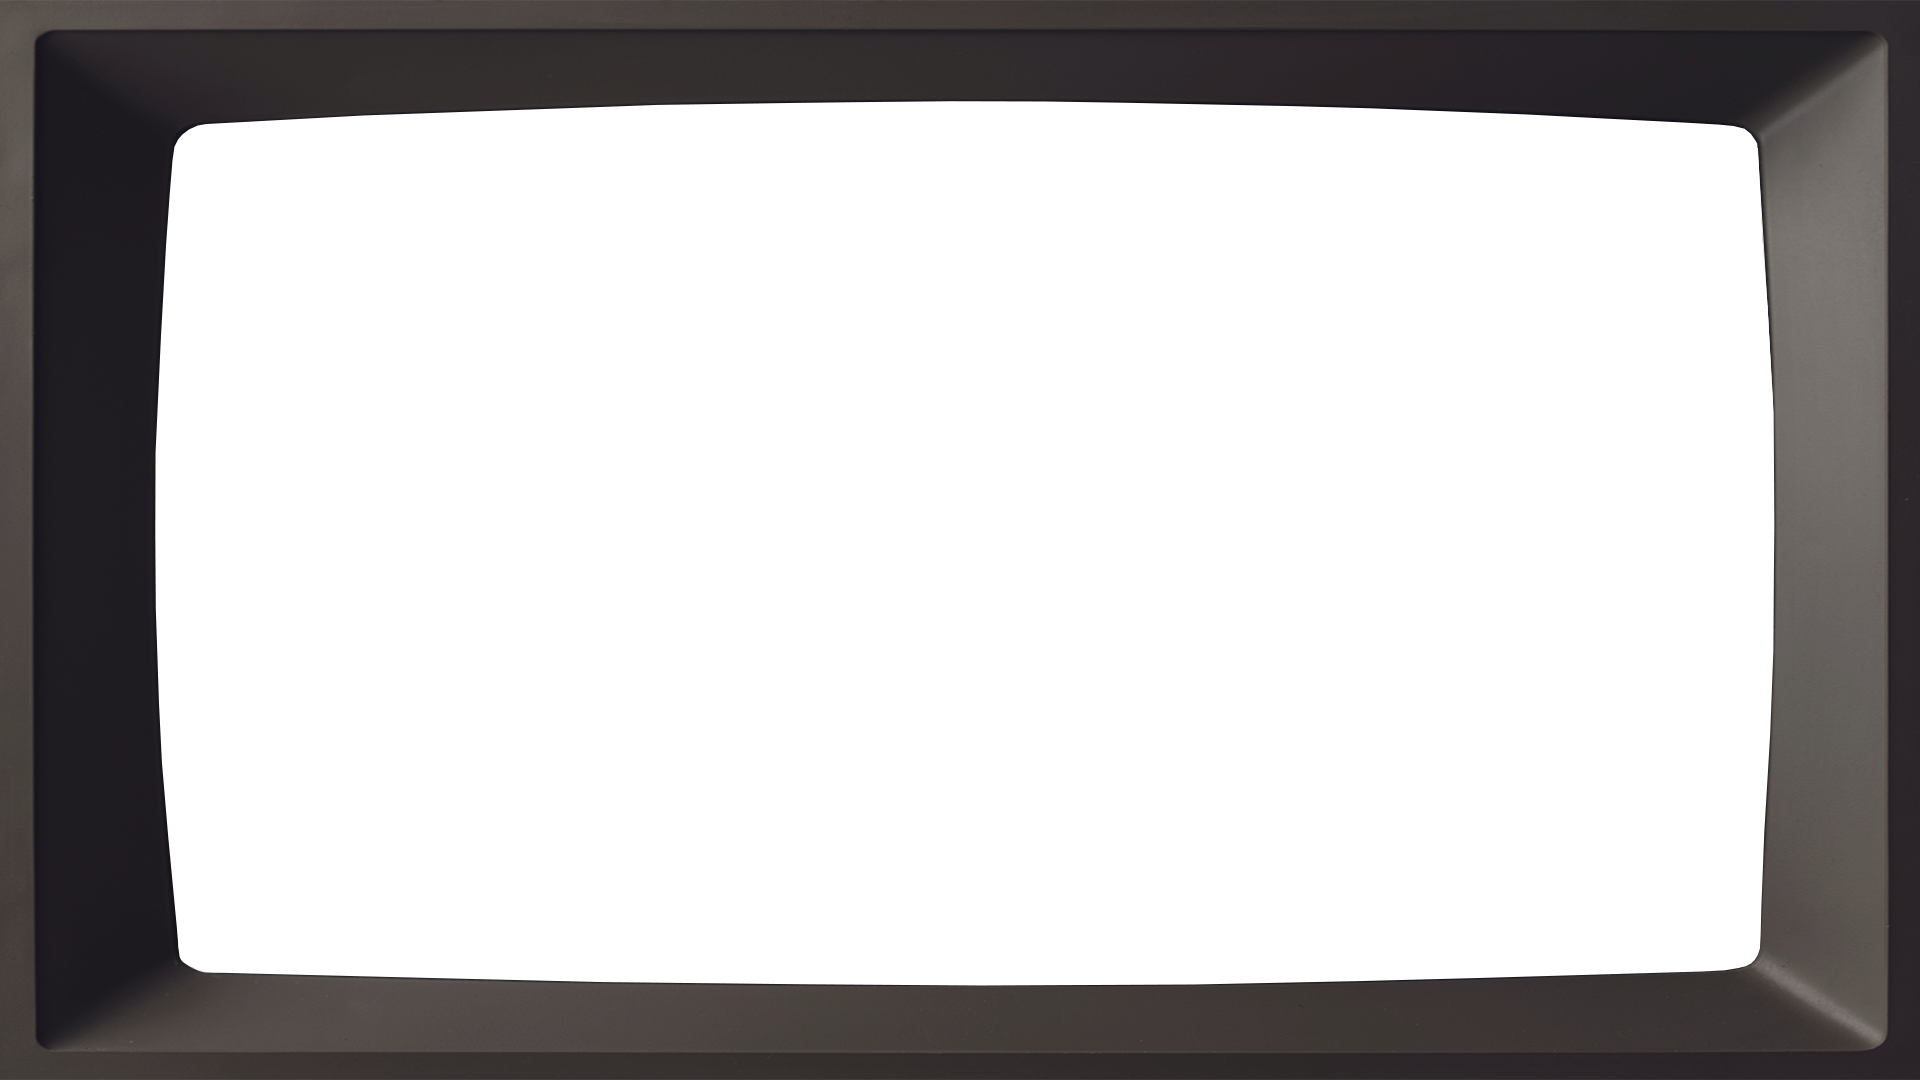
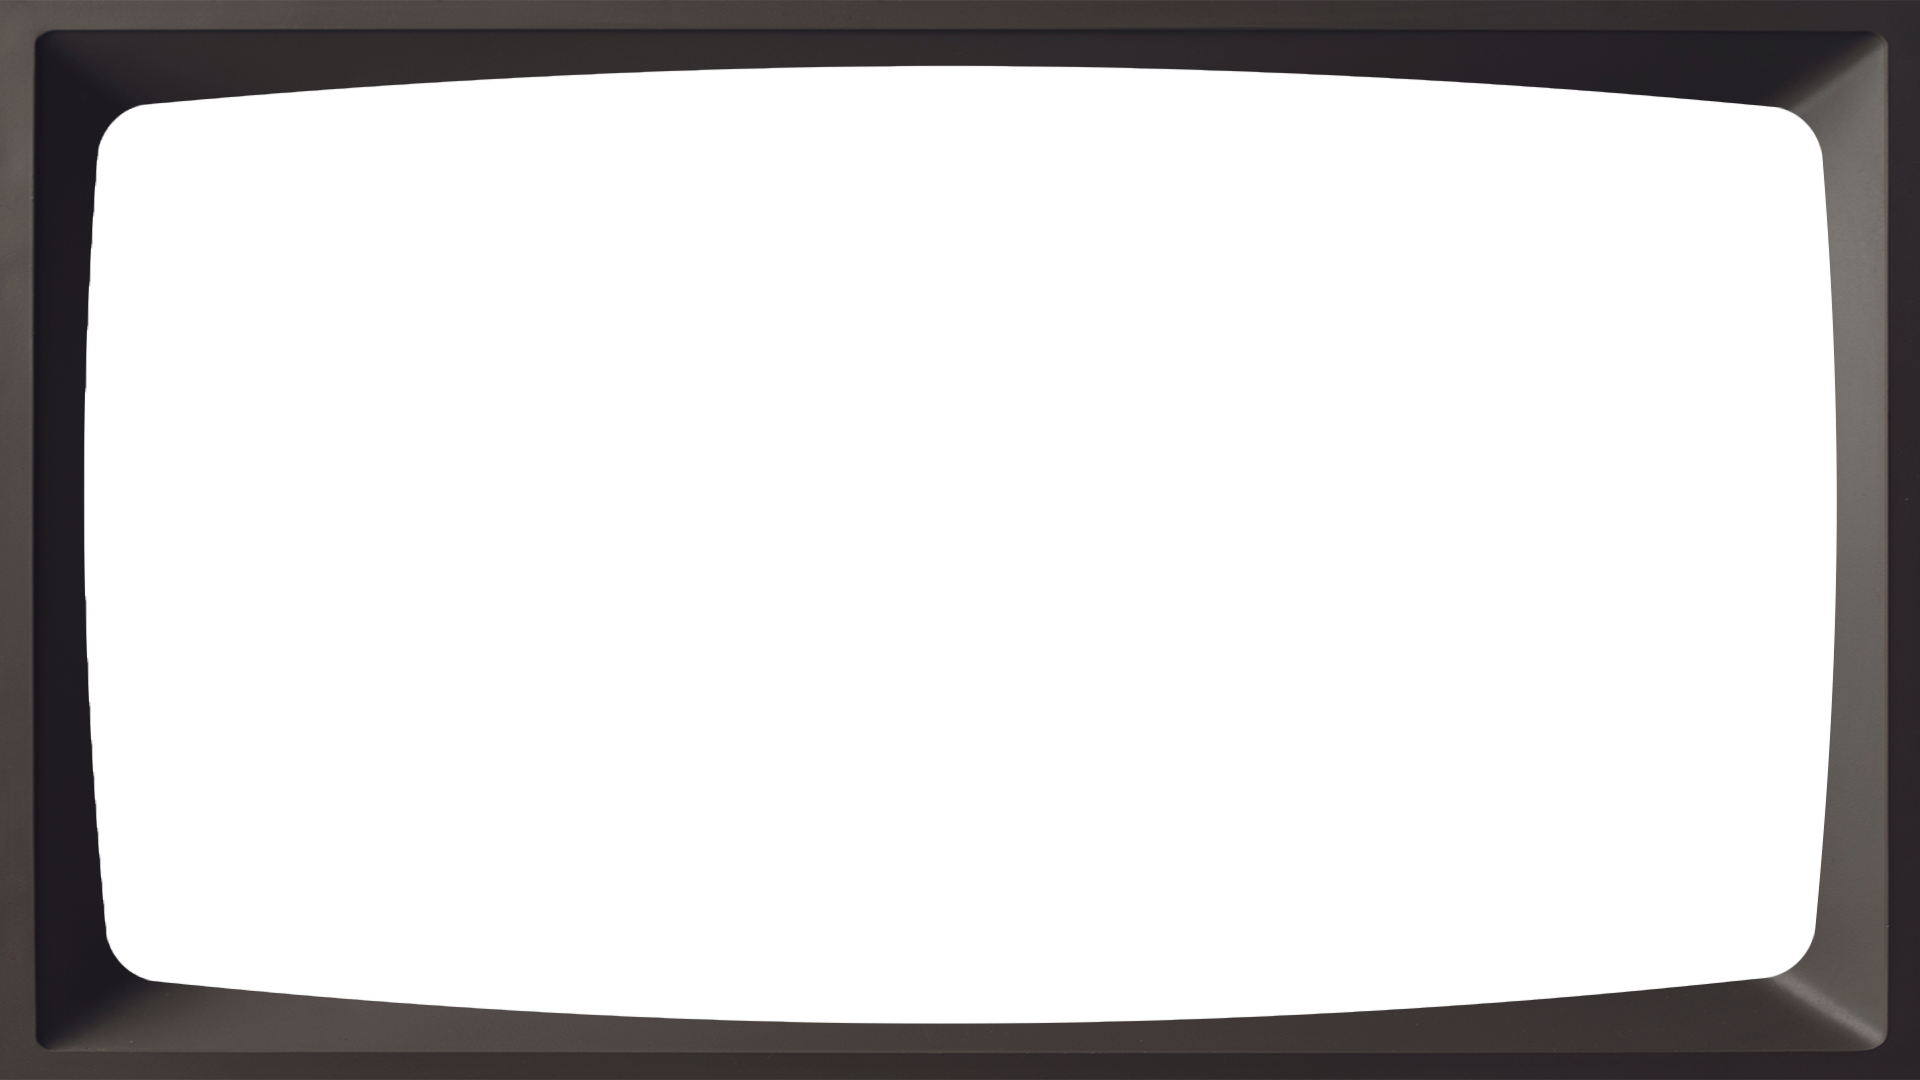
draggable windows, basic frame setup

Changed region(s): [[0.0312, 0.0611, 0.9688, 0.9472]]

diff --git a/src/components/Frame.css b/src/components/Frame.css
@@ -1,13 +1,13 @@
 .frame {
-    background-image: url('../assets/images/CRT-FRAME.png');
-    min-width: 100%;
-    min-height: 100%;
-    background-position: center;
-    background-size: 100%;
-    position: fixed;
+    width: 100%;
+    height: 100%;
+    top:50%;
+    left:50%;
+    position: absolute;
+    transform: translate(-50%, -50%);
+    border-image: url(../assets/images/CRT-FRAME.png) 5 fill;
+    opacity: 100%;
 
+    z-index: 100;
+    pointer-events: none;
 }
-
-.frame-image {
-}
-    

diff --git a/src/index.css b/src/index.css
@@ -4,7 +4,17 @@ body {
     font-family: -apple-system, BlinkMacSystemFont, 'Segoe UI', 'Roboto', 'Oxygen', 'Ubuntu', 'Cantarell', 'Fira Sans', 'Droid Sans', 'Helvetica Neue', sans-serif;
     -webkit-font-smoothing: antialiased;
     -moz-osx-font-smoothing: grayscale;
+    overflow: hidden;
 }
+
+html, body, #app, #app>div {
+  height: 100%
+}
+
+
+body > #root > div {
+    height: 100vh;
+  }
 
 code {
     font-family: source-code-pro, Menlo, Monaco, Consolas, 'Courier New', monospace;

diff --git a/src/components/Window.js b/src/components/Window.js
@@ -1,0 +1,18 @@
+import './Window.css'
+
+import React from 'react'
+import Draggable from 'react-draggable'
+
+export default function Window() {
+
+
+
+    return (
+        <Draggable bounds={{left:10}}>
+            <div className="window">
+                <div className="menu-bar">
+                </div>
+            </div>
+        </Draggable>
+    )
+}

diff --git a/src/pages/home/HomePage.js b/src/pages/home/HomePage.js
@@ -1,9 +1,15 @@
+import './HomePage.css';
+
 import Frame from '../../components/Frame';
+import Window from '../../components/Window';
 
 export default function HomePage() {
+
     return (
-        <div>
+        <div className="homepage">
             <Frame />
+            <Window />
+            <h1>home</h1>
         </div>
     )
 }

diff --git a/src/App.js b/src/App.js
@@ -7,11 +7,10 @@ import HomePage from './pages/home/HomePage'
 import AboutPage from './pages/about/AboutPage'
 
 function App() {
+
   return (
     <div className="App">
       <BrowserRouter>
-
-
         <Routes>
           <Route path="/" element={<HomePage />} />
           <Route path="/about" element={<AboutPage />} />

diff --git a/src/components/Window.css b/src/components/Window.css
@@ -1,0 +1,15 @@
+.window {
+    position: absolute;
+    top: 30%;
+    left: 10%;
+    width: 550px;
+    height: 300px;
+    background-color: white;
+}
+
+.window .menu-bar {
+    width: 100;
+    height: 30px;
+    background-color: grey;
+    
+}

diff --git a/src/components/Frame.js b/src/components/Frame.js
@@ -5,8 +5,6 @@ import CRT from '../assets/images/CRT-FRAME.png';
 
 export default function Frame() {
     return (
-        <div className="frame" background>
-            
-        </div>
+        <div className="frame"></div>
     )
 }

diff --git a/src/pages/home/HomePage.css b/src/pages/home/HomePage.css
@@ -1,0 +1,9 @@
+.homepage {
+    border: 40px solid #e8e8e8;
+    background-image: url('../../assets/images/spaceneedle_1.gif');
+    background-size: cover;
+
+    height: 100vh;
+    padding: 20px;
+    margin: 0;
+}
